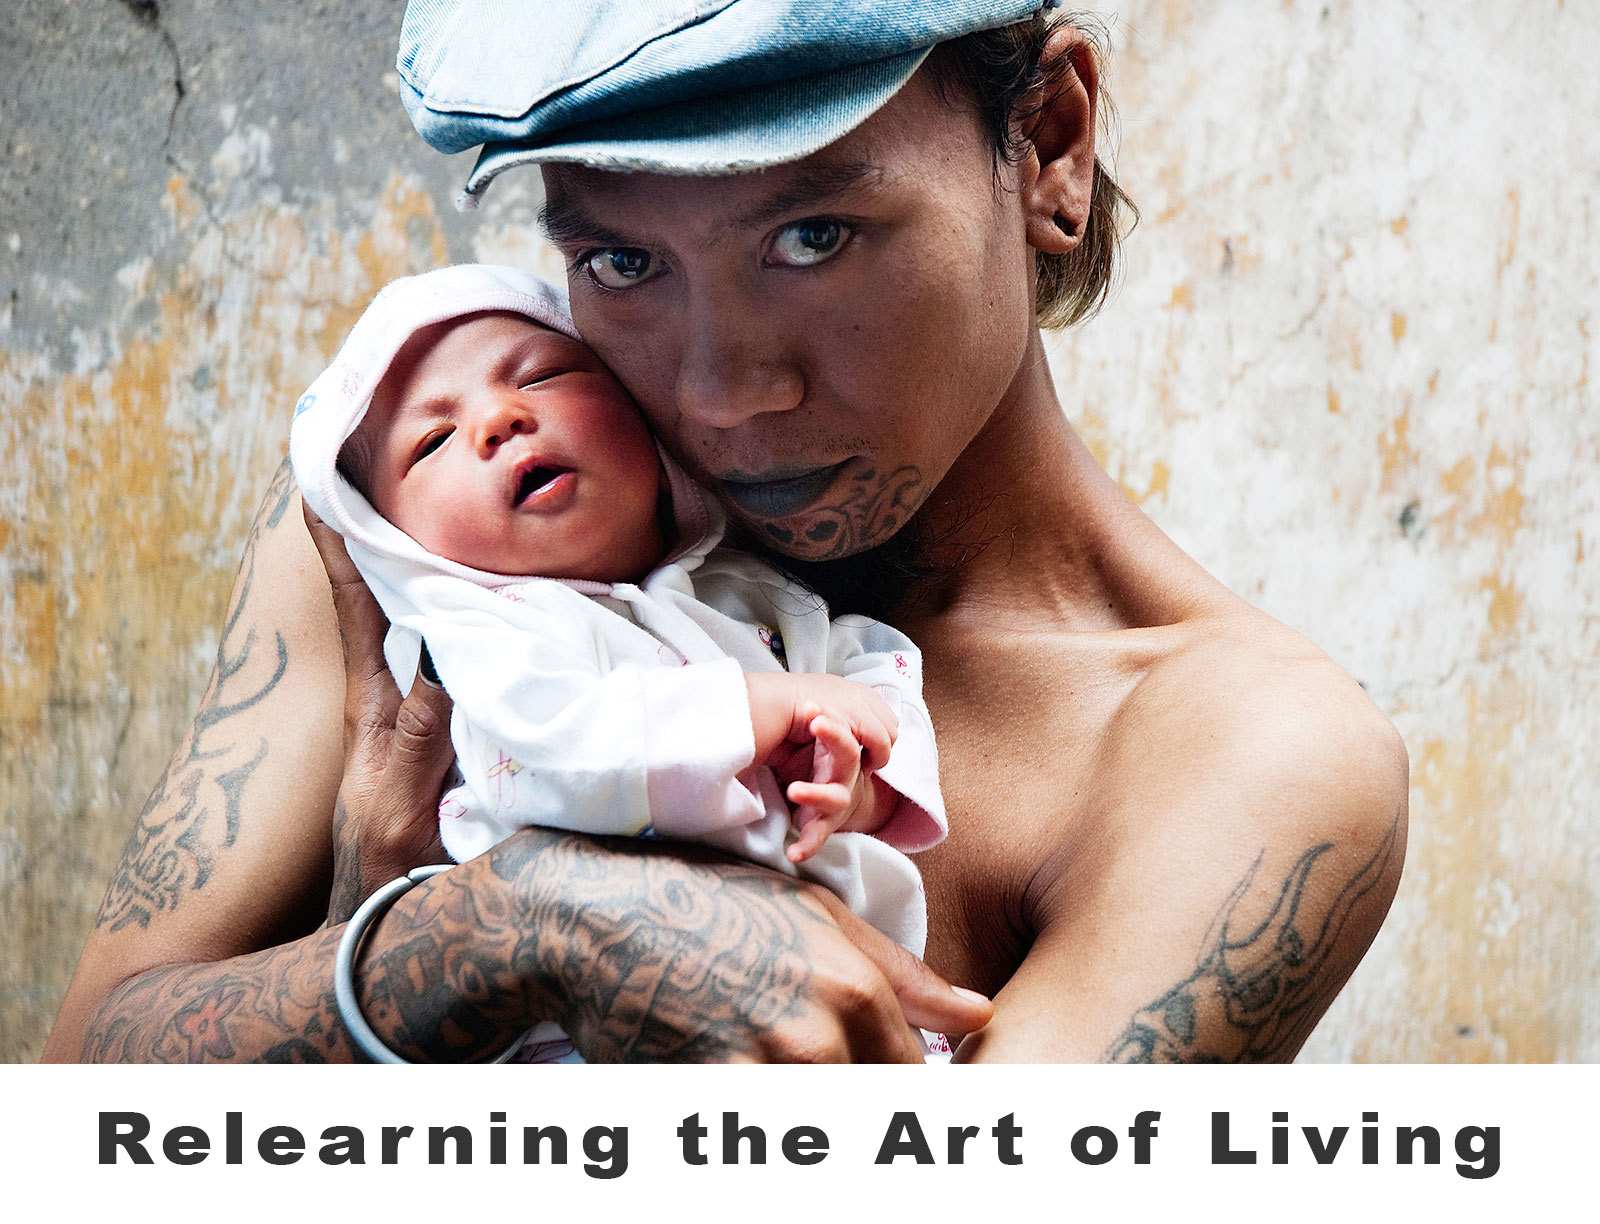
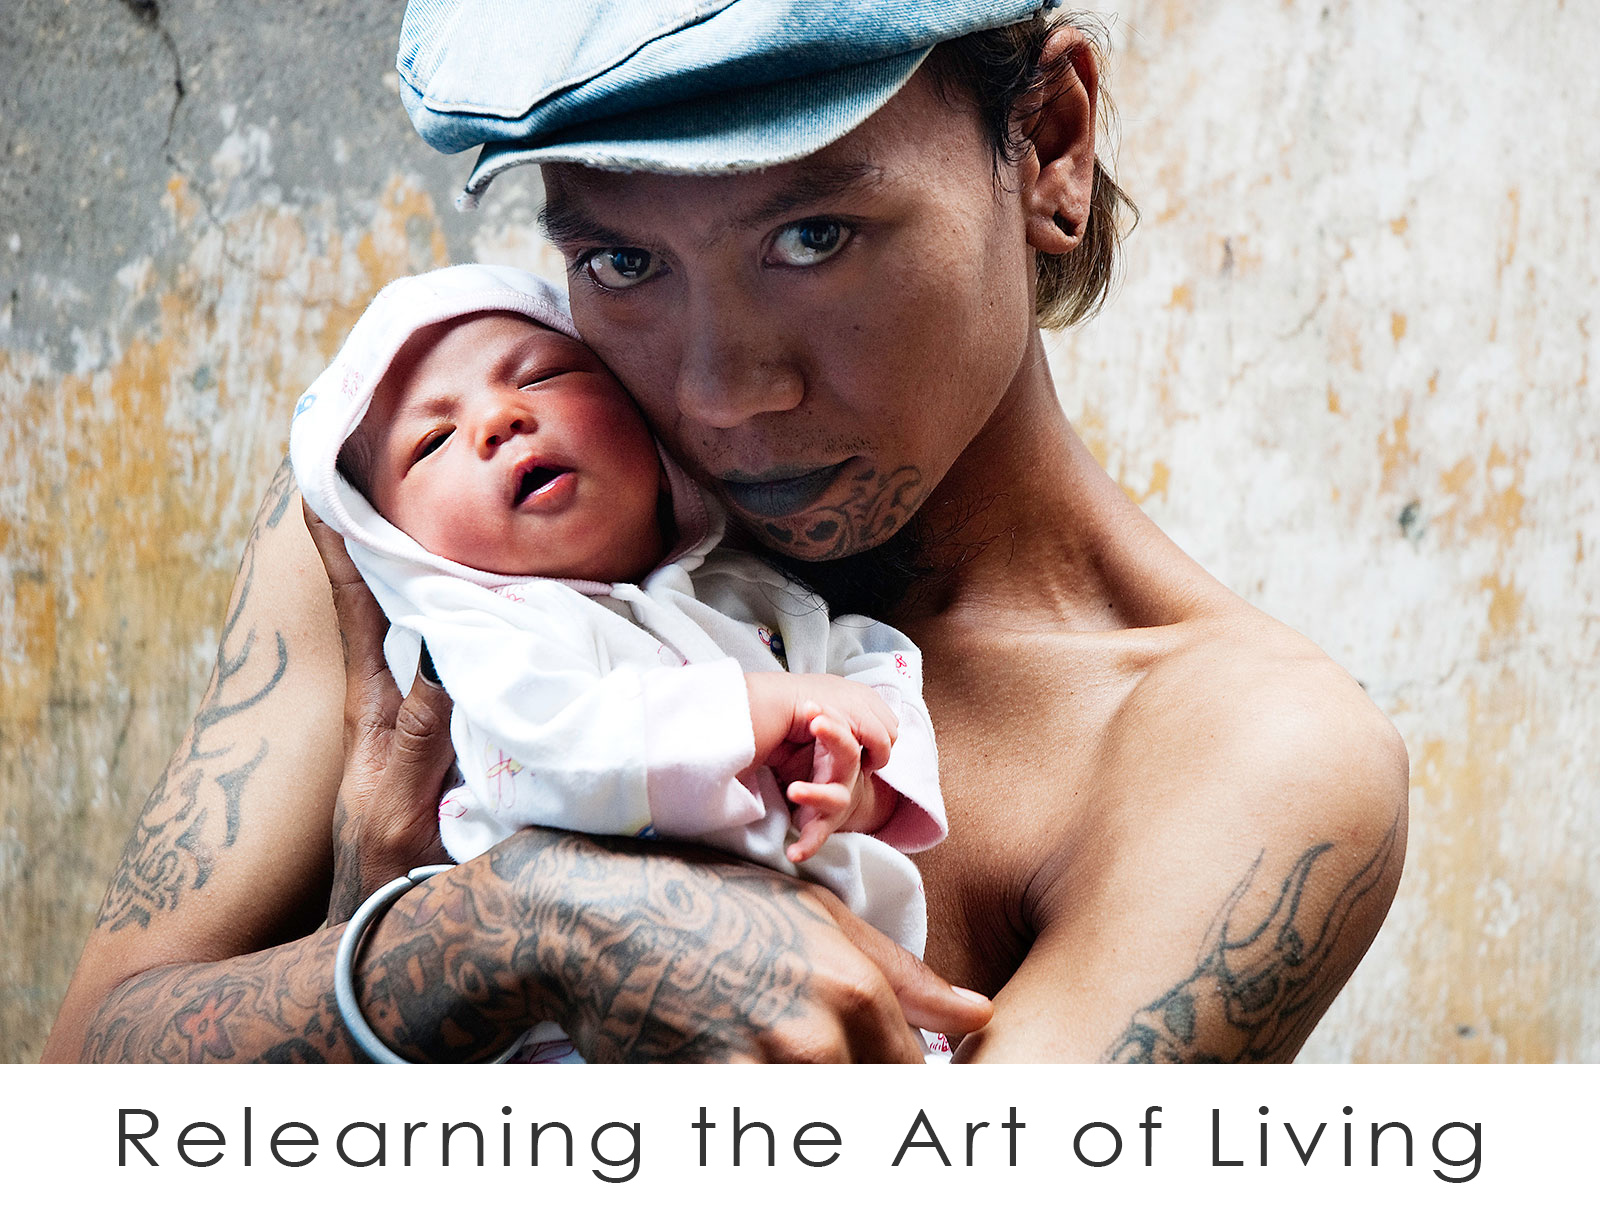
done

Changed region(s): [[0.0625, 0.9003, 0.9375, 0.9624]]

diff --git a/landing page1.html b/landing page1.html
@@ -11,7 +11,7 @@
   text-align: center;
   font-family: "Century Gothic", CenturyGothic, Geneva, AppleGothic, sans-serif;
   font-weight: 400;
-  background-color: rgba(0, 102, 0, 0.7);
+  background-color: rgba(110, 124, 63, 0.5);
   color: #ffffff;
 }
 .testimony {
@@ -169,7 +169,7 @@ a.custom_link {
     background-color: rgba(255, 255, 255, 0.5);
     padding: 2% 2% 2% 0;
     z-index: 1;
-    font-size: 30px;
+    font-size: 25px;
 }
 .tagline {
     font-weight: 800;
@@ -195,7 +195,7 @@ a.custom_link {
     font-size: 25px;
     padding: 1em 0 1em 0;
     width: 40%;
-    margin-top: -13%;
+    margin-top: -12%;
     z-index: 1;
     position: absolute;
     margin-left: 6%;
@@ -219,7 +219,7 @@ a.custom_link {
     position: absolute;
 }
 .testimony {
-    margin: 15% 2% 2% 6%;
+    margin: 15% 2% 2% 4%;
     text-align: left;
 }
 }
@@ -228,21 +228,21 @@ a.custom_link {
   width: 100%;
 }
 .text {
-    top: 1%;
+    top: 1.5%;
     margin-left: 50%;
     width: 45%;
     text-align: right;
     background-color: rgba(255, 255, 255, 0.5);
     padding: 2% 2% 2% 0;
     z-index: 1;
-    font-size: 20px;
+    font-size: 18px;
 }
 .tagline {
     font-weight: 800;
     font-size: 25px;
 }
 .gallery {
-    font-size: 20px;
+    font-size: 1em;
     padding: 1em;
     width: 40%;
     margin-top: -13%;
@@ -251,11 +251,11 @@ a.custom_link {
     margin-left: 4%;
 }
 .image_links {
-    width: 90%;
+    width: 94%;
     margin-top: -5%;
     z-index: 1;
     position: absolute;
-    margin-left: 4%;
+    padding-left: 4%;
 }
 #logo {
     width: 25%;
